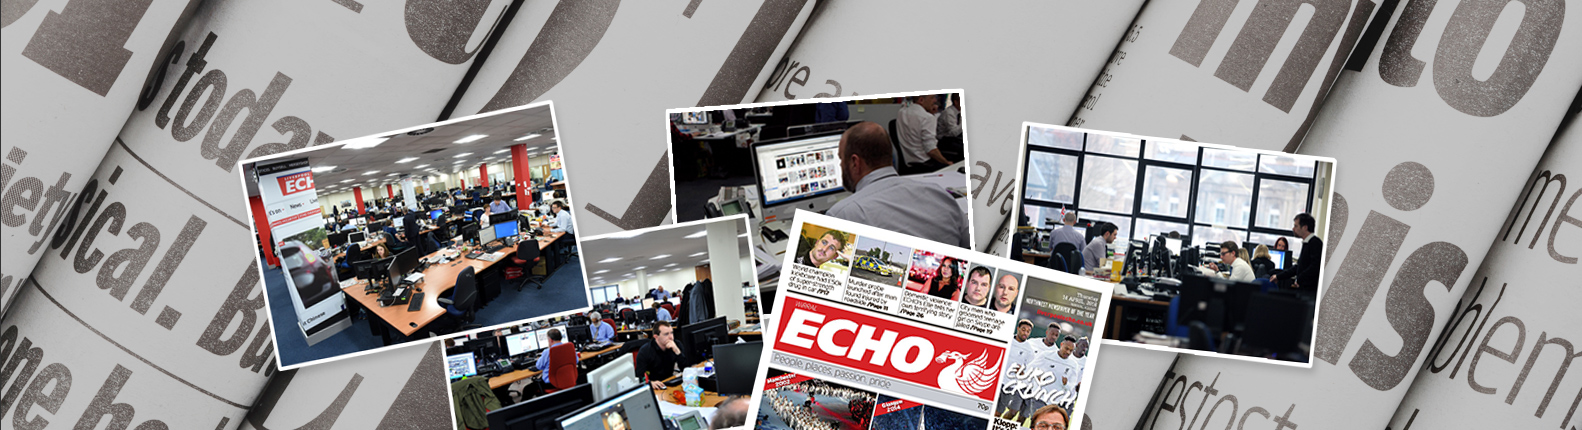
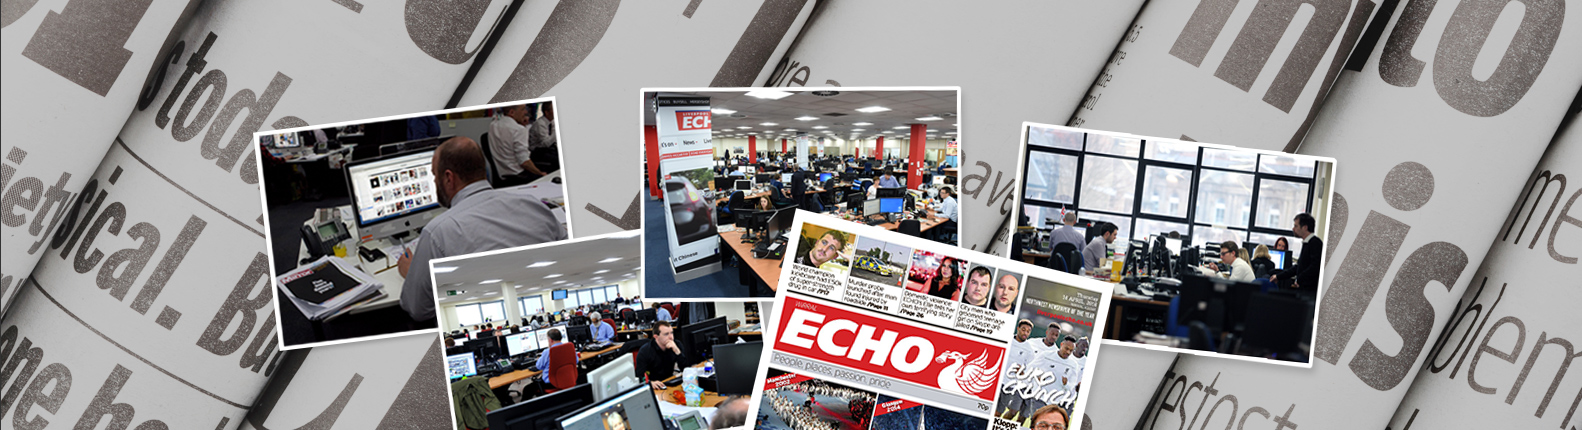
Replacement header image and amend to Video click text

Changed region(s): [[0.1239, 0.2116, 0.3717, 0.8767], [0.4027, 0.1814, 0.6195, 0.7256]]

diff --git a/html/app/themes/gcit/page-contentwatch.php b/html/app/themes/gcit/page-contentwatch.php
@@ -104,7 +104,7 @@ Template Name: ContentWatch Home
                 <div class="how-cell-dark-right1">
                     <h1>Video:</h1>
                     <p>What&rsquo;s new in Adobe Creative Suite 5.5</p>
-                    <p><a href="<?php echo esc_url( home_url( '/contentwatch/video/' ) ); ?>">Click here</p>
+                    <p><a href="<?php echo esc_url( home_url( '/contentwatch/video/' ) ); ?>">CLICK HERE</p>
                 </div>
             </div>
           </div>
